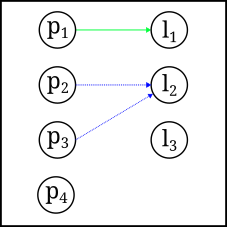
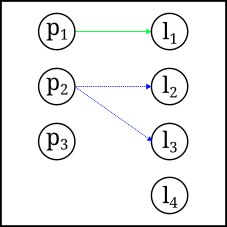
work on evaluations chapter

diff --git a/main.tex b/main.tex
@@ -786,6 +786,7 @@ are generally, from the way how they arrived small. This leads us to how the
 predictions are processed.
 
 \section{Postprocessing}
+\label{sec:postprocessing}
 
 As mentioned in the previous section even after applying the overlap strategy
 some artifacts remain. Moreover, some artifacts actually closely resemble thin
@@ -875,7 +876,46 @@ matches are then accumulated. In the implementation and further diagrams we
 refer to this as all matches. The value 50\% was chosen so that a single ground
 truth label cannot be contained in multiple predicted connected components.
 
-Afterwards the 
+Now that we have assigned possible multiple labels to each predicted connected
+component we can divide the mapping into what is refered to as clean matches and
+others. In Figure \ref{fig:bipartitematching} we see a diagram of an example of
+a possible matching. In these case the network predicted three tunnels, and the
+data has three labeled tunnels. In this case a predicted tunnel denoted as $p_1$
+is uniquely mapped to label $l_1$. Since $p_1$ is not connected to any other
+label, we call this a clean match. On the other hand predicted connected
+component $p_2$ has according to the aforementioned algorithm been mapped to two
+different labels $l_2$ and $l_3$. As previously argued it would be unwise to
+disregard this mapping as a bad one, therefore we will also accept this mapping
+and it will show up in following metrics when we refer to all matches.
+
+Finnaly, this allows us to quantify how well different networks understand the
+image not on a pixel by pixel manner, but in terms of the whole tunnels. We can
+look at the prediction $p_3$ as a false positive, since it is not mapped to any
+tunnel, while the label is $l_4$ is viewed as a missed tunnel, and therefore
+called a false negative. All clean matches ($p_1$->$l_1$) are considered to be a
+true positives, while multiple matches are, according to the precious arguments,
+also considered as a true positive, in fact this is counted as a single true
+positive.
+
+To summaries, we are goind to look at the Jaccard and Dice score for the
+following cases:
+\begin{itemize}
+    \item{Test: In this case we are looking at performance on cutouts of tunnels
+        in one particular quadrant}
+    \item{Evalution: In this case we are calculating the performance from the
+        overal stitched binary images.}
+    \item{Postprocesed overall: In this metric, the postprocessing described in Section
+        \ref{sec:postprocessing} is applied on top of the predictions, and whole
+        images are evaluated}
+    \item{Postprocessed Clean matches: In this metric, we take just the clean
+        matches and evaluate the binary masks.}
+    \item{Postprocessed all matches: Like above, but even predictions mapped to
+        multiple labels are used.}
+    \item{Tunnel metric: Here we care about just the mapping described in Figure
+        \ref{fig:bipartitematching}}
+\end{itemize}
+% todo: definitely deserves more attention
+
 % todo: as an example, show the quad with all sort of tunnels connected together
 % todo : btw am i explainign the how we binarise the labels?
 
